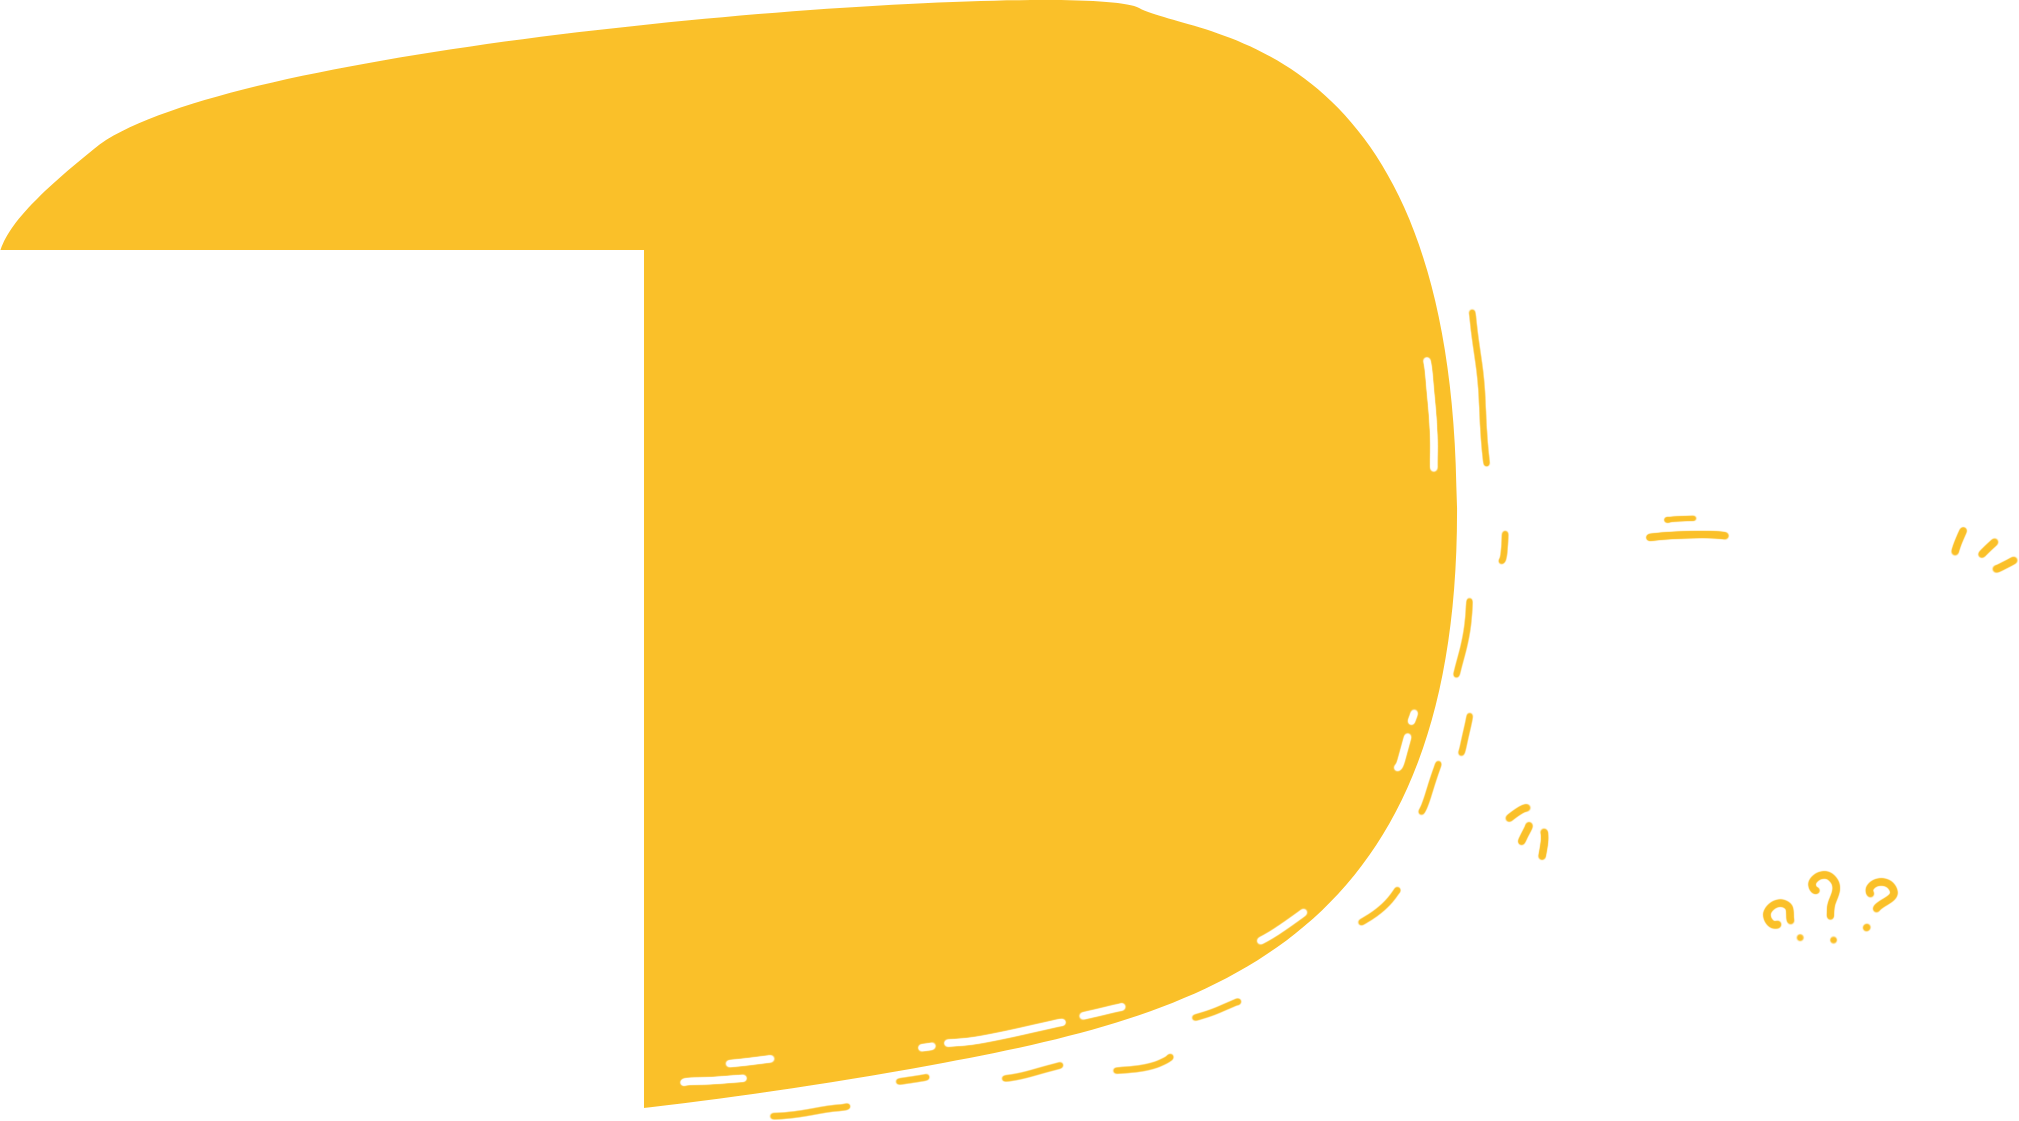
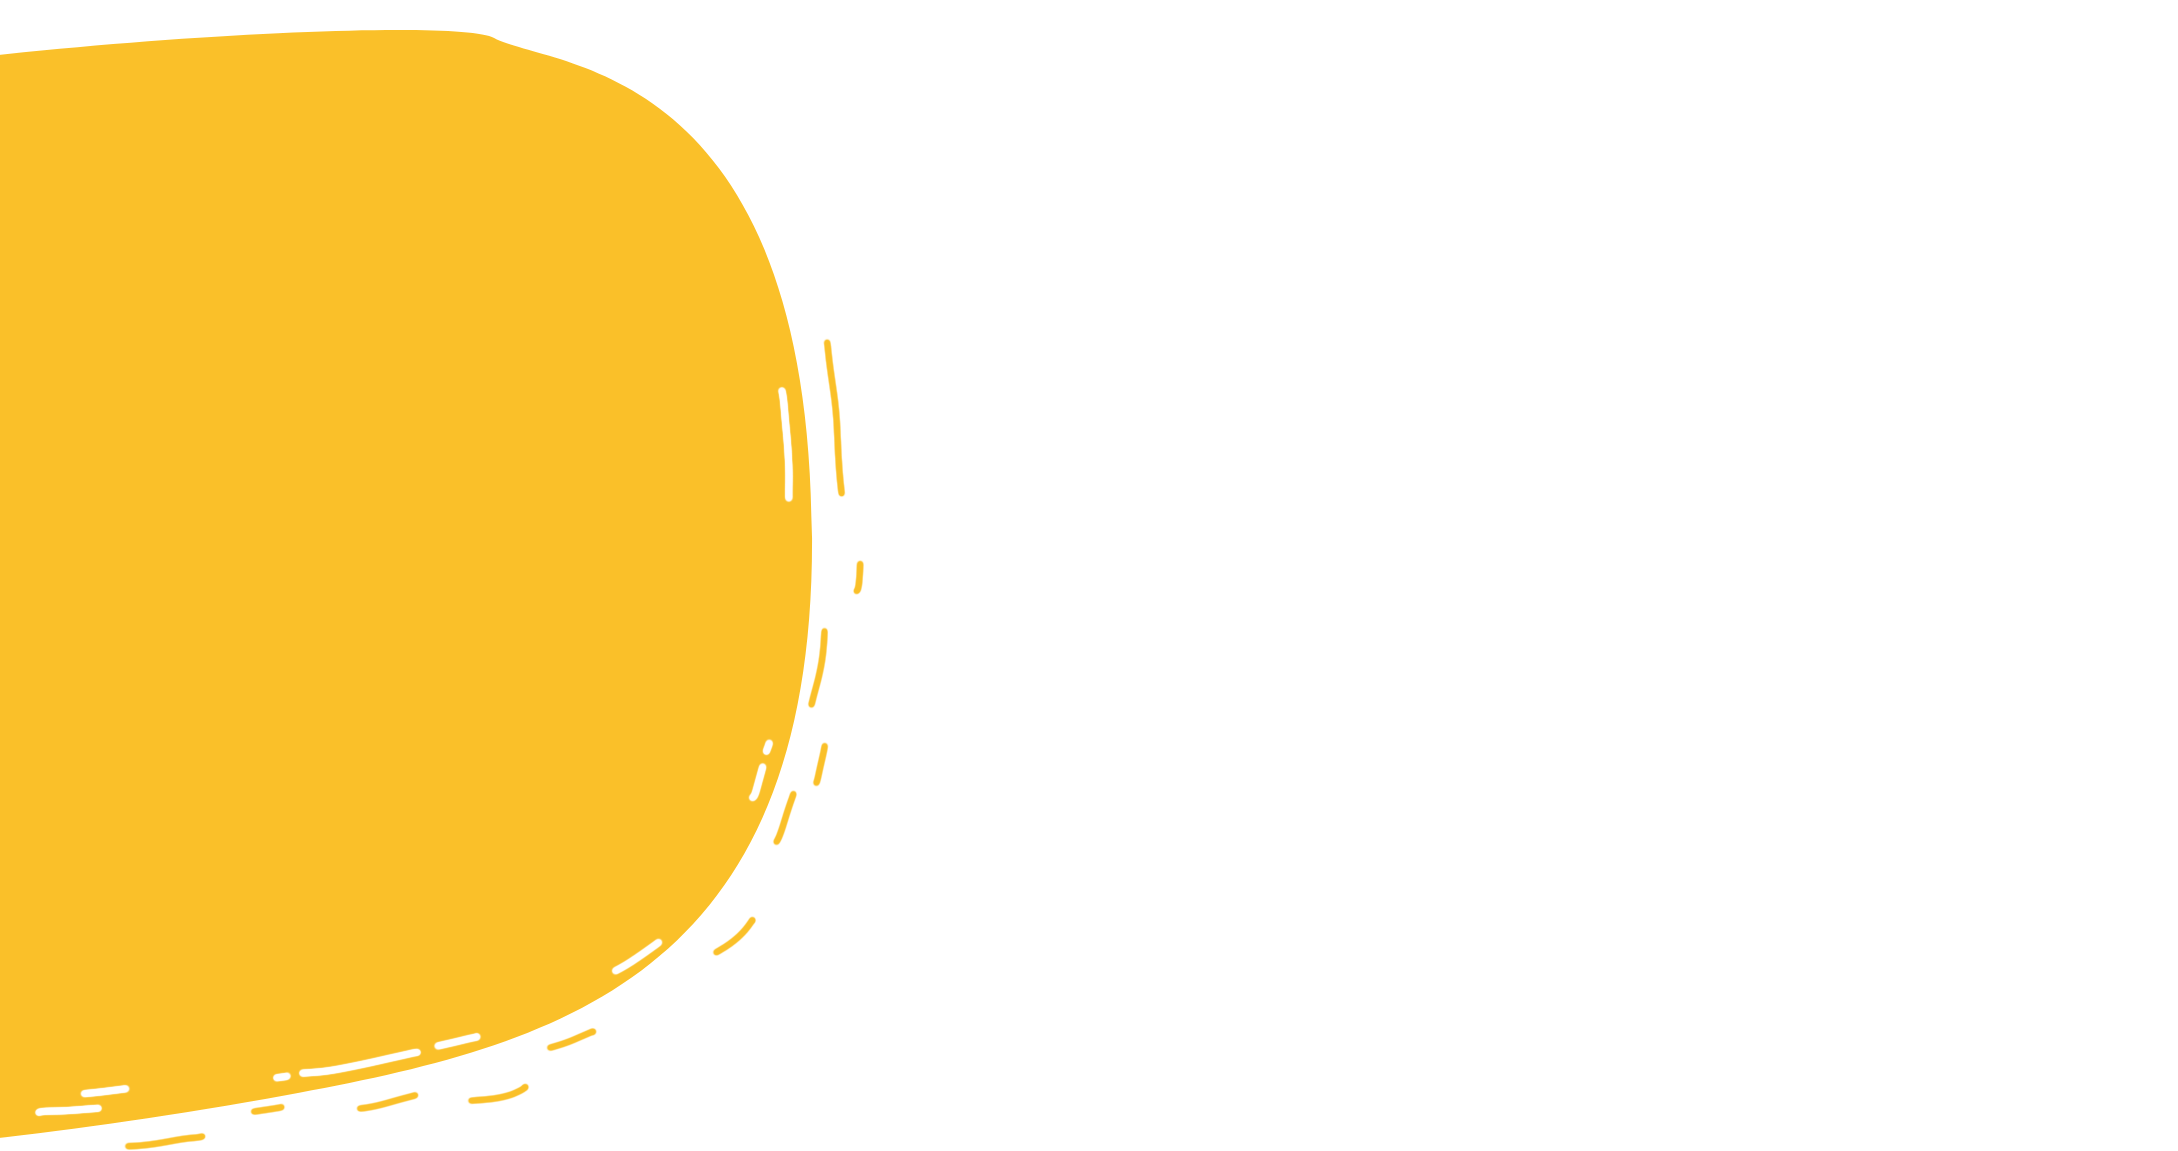
(feature) fixed pages background;

diff --git a/assets/css/style.css b/assets/css/style.css
@@ -1,2 +1,2 @@
-html{box-sizing:border-box}*,:after,:before{box-sizing:inherit}body{margin:0;padding:0;background-color:#efebeb;color:#000;font-size:20px;font-family:"PT Serif",serif}.primary-title{font-size:100px;font-weight:700;line-height:90px}.secondary-title{font-size:70px;font-weight:700;line-height:68px}.main-text{font-family:Proxima Nova,sans-serif;font-size:20px;font-weight:400;line-height:32px}.main-button{text-decoration:none;cursor:pointer;background-color:#000;font-size:18px;padding:13px 13px 13px 21px;display:inline-flex;justify-content:space-between;align-items:center;min-width:235px;border-radius:18px;color:#fbbf28;border:none}.main-button>span{display:inline-block;margin-left:42px;width:16px;height:12px;background-image:url(../img/arrow-pointing-to-right.png);background-size:contain;background-repeat:no-repeat}.quote-author{font-weight:700;font-family:"PT Serif",serif}@font-face{font-family:"PT Serif";font-style:normal;font-weight:400;font-display:swap;src:local("PT Serif"),local("PTSerif-Regular"),url(../fonts/pt-serif-v11-latin_cyrillic-regular.woff2) format("woff2"),url(../fonts/pt-serif-v11-latin_cyrillic-regular.woff) format("woff")}@font-face{font-family:"PT Serif";font-style:normal;font-weight:700;font-display:swap;src:local("PT Serif Bold"),local("PTSerif-Bold"),url(../fonts/pt-serif-v11-latin_cyrillic-700.woff2) format("woff2"),url(../fonts/pt-serif-v11-latin_cyrillic-700.woff) format("woff")}@font-face{font-family:Proxima nova;font-style:normal;font-weight:400;font-display:swap;src:local("Proxima nova"),local("Proxima-nova"),url(../fonts/ProximaNova-Regular.woff2) format("woff2"),url(../fonts/ProximaNova-Regular.woff) format("woff")}.start-page{background-image:url(../img/text-cloud.png);min-height:100vh;background-position:64px bottom;background-repeat:no-repeat}.start-page__header{padding-left:64px;padding-top:42px}.logo{text-decoration:none;display:inline-block;width:156px;height:48px}.logo__img{width:100%;height:100%;-o-object-fit:contain;object-fit:contain}.start-page__desc-box{display:flex}.start-page__desc-wrap{max-width:488px;text-align:center;margin-top:73px;margin-right:108px;margin-left:auto}.start-page__slogan{font-size:24px;font-weight:500;line-height:68px;margin:0;font-family:Proxima Nova,sans-serif}.start-page__title{margin:0 0 36px}.why-us{background-image:url(../img/why-us.png);min-height:100vh;background-position:-645px bottom;background-repeat:no-repeat;position:relative}.why-us__desc-box{max-width:585px;padding-top:240px;margin-left:115px}.why-us__title{margin:0}.why-us__cards-list{list-style:none;margin:0;padding:0;display:flex}.why-us__card{width:300px;height:250px}.why-us__card:first-child{width:450px}.why-us__card:not(:last-child){margin-right:30px}.why-us__card-link{text-decoration:none;cursor:pointer;display:inline-block;width:100%;height:100%}.why-us__card-img{-o-object-fit:contain;object-fit:contain}.callback{background-image:url(../img/callback.png);min-height:100vh;background-position:-375px -170px;background-repeat:no-repeat;display:flex;flex-wrap:wrap;justify-content:space-between;position:relative}.callback__fields-wrapper{max-width:720px;display:grid;grid-template-columns:repeat(2,1fr);grid-row-gap:20px;grid-column-gap:20px}.callback__form input{height:50px;background-color:#fff}.callback__form input,.callback__form textarea{width:348px;border-radius:15px;color:#000;border:none;padding-left:30px;font-size:18px;font-family:Proxima Nova,sans-serif}.callback__form textarea{resize:none;height:190px;padding-top:19px}::-webkit-input-placeholder{font-size:18px;color:#000;font-family:Proxima Nova,sans-serif}:-moz-placeholder,::-moz-placeholder{font-size:18px;color:#000;font-family:Proxima Nova,sans-serif}:-ms-input-placeholder{font-size:18px;color:#000;font-family:Proxima Nova,sans-serif}.form-label--textarea{grid-column-start:2;grid-column-end:3;grid-row-start:1;grid-row-end:4}.callback__form-submit-button{margin-top:50px}.callback__form-wrapper{min-height:100vh;height:100%;display:flex;flex-direction:column;justify-content:center;padding-left:150px}.callback__title{margin:0 0 53px}.callback__desc-box{max-width:220px;margin-right:70px;padding-top:155px}.callback__desc-box blockquote{margin:0}.callback__text.callback__quote-text{font-size:32px;font-weight:400;line-height:42px}.callback__footer{position:absolute;right:0;bottom:0;padding-right:130px;padding-bottom:57px}
+html{box-sizing:border-box}*,:after,:before{box-sizing:inherit}body{margin:0;padding:0;background-color:#efebeb;color:#000;font-size:20px;font-family:"PT Serif",serif}.primary-title{font-size:100px;font-weight:700;line-height:90px}.secondary-title{font-size:70px;font-weight:700;line-height:68px}.main-text{font-family:Proxima Nova,sans-serif;font-size:20px;font-weight:400;line-height:32px}.main-button{text-decoration:none;cursor:pointer;background-color:#000;font-size:18px;padding:13px 13px 13px 21px;display:inline-flex;justify-content:space-between;align-items:center;min-width:235px;border-radius:18px;color:#fbbf28;border:none}.main-button>span{display:inline-block;margin-left:42px;width:16px;height:12px;background-image:url(../img/arrow-pointing-to-right.png);background-size:contain;background-repeat:no-repeat}.quote-wrapper blockquote{margin:0}.quote-text{font-size:32px;font-weight:400;line-height:42px}.quote-author{font-weight:700;font-family:"PT Serif",serif}.disclaimer p{margin:0;color:#090909;font-family:Proxima Nova,sans-serif;font-size:9px;font-weight:400;line-height:20px}main{display:flex;width:400vw}section{width:100vw;max-height:100vh}@font-face{font-family:"PT Serif";font-style:normal;font-weight:400;font-display:swap;src:local("PT Serif"),local("PTSerif-Regular"),url(../fonts/pt-serif-v11-latin_cyrillic-regular.woff2) format("woff2"),url(../fonts/pt-serif-v11-latin_cyrillic-regular.woff) format("woff")}@font-face{font-family:"PT Serif";font-style:normal;font-weight:700;font-display:swap;src:local("PT Serif Bold"),local("PTSerif-Bold"),url(../fonts/pt-serif-v11-latin_cyrillic-700.woff2) format("woff2"),url(../fonts/pt-serif-v11-latin_cyrillic-700.woff) format("woff")}@font-face{font-family:Proxima nova;font-style:normal;font-weight:400;font-display:swap;src:local("Proxima nova"),local("Proxima-nova"),url(../fonts/ProximaNova-Regular.woff2) format("woff2"),url(../fonts/ProximaNova-Regular.woff) format("woff")}.start-page{min-height:100vh;position:relative}.start-page:after{content:"";position:absolute;top:-220px;bottom:0;left:64px;right:-55%;width:2330px;background-image:url(../img/why-us-cloud.png);background-repeat:no-repeat;z-index:-1;background-size:cover}.start-page__header{padding-left:64px;padding-top:42px;position:absolute;top:0;left:0}.logo{text-decoration:none;display:inline-block;width:156px;height:48px}.logo__img{width:100%;height:100%;-o-object-fit:contain;object-fit:contain}.start-page__desc-box{display:flex;align-items:center;width:45%;margin-left:auto;height:100%}.start-page__desc-wrap{max-width:488px;text-align:center}.start-page__slogan{font-size:24px;font-weight:500;line-height:68px;margin:0;font-family:Proxima Nova,sans-serif}.start-page__title{margin:0 0 36px}.why-us{min-height:100vh;position:relative}.why-us__desc-box{max-width:585px;padding-top:240px;margin-left:115px}.why-us__title{margin:0}.why-us__cards-list{list-style:none;margin:0;padding:0;display:flex}.why-us__card{width:300px;height:250px}.why-us__card:first-child{width:450px}.why-us__card:not(:last-child){margin-right:30px}.why-us__card-link{text-decoration:none;cursor:pointer;display:inline-block;width:100%;height:100%}.why-us__card-img{-o-object-fit:contain;object-fit:contain}.ads{min-height:100vh;background-repeat:no-repeat;background-position:1000px -185px;background-image:url(../img/ads.png);position:relative;display:flex}.ads__quote-wrapper{max-width:660px;display:flex;align-items:flex-end;padding-bottom:100px;margin-left:110px}.ads__disclaimer{position:absolute;bottom:15px;left:110px}.callback{background-image:url(../img/callback.png);min-height:100vh;background-position:-375px -170px;background-repeat:no-repeat;display:flex;flex-wrap:wrap;justify-content:space-between;position:relative}.callback__fields-wrapper{max-width:720px;display:grid;grid-template-columns:repeat(2,1fr);grid-row-gap:20px;grid-column-gap:20px}.callback__form input{height:50px;background-color:#fff}.callback__form input,.callback__form textarea{width:348px;border-radius:15px;color:#000;border:none;padding-left:30px;font-size:18px;font-family:Proxima Nova,sans-serif}.callback__form textarea{resize:none;height:190px;padding-top:19px}::-webkit-input-placeholder{font-size:18px;color:#000;font-family:Proxima Nova,sans-serif}:-moz-placeholder,::-moz-placeholder{font-size:18px;color:#000;font-family:Proxima Nova,sans-serif}:-ms-input-placeholder{font-size:18px;color:#000;font-family:Proxima Nova,sans-serif}.form-label--textarea{grid-column-start:2;grid-column-end:3;grid-row-start:1;grid-row-end:4}.callback__form-submit-button{margin-top:50px}.callback__form-wrapper{min-height:100vh;height:100%;display:flex;flex-direction:column;justify-content:center;padding-left:150px}.callback__title{margin:0 0 53px}.callback__desc-box{max-width:220px;margin-right:70px;padding-top:155px}.callback__footer{position:absolute;right:0;bottom:0;padding-right:130px;padding-bottom:57px}
 /*# sourceMappingURL=style.css.map */

diff --git a/index.html b/index.html
@@ -10,7 +10,7 @@
 </head>
 <body>
   <main class="main" id="main">
-    <section class="start-page">
+    <section class="start-page rellax" data-rellax-speed="2">
       <header class="start-page__header">
         <a href="" class="start-page__header-logo logo">
           <img src="assets/img/logo.png"
@@ -19,7 +19,7 @@
         </a>
       </header>
 
-      <div class="start-page__desc-box">
+      <div class="start-page__desc-box rellax" data-rellax-speed="10">
         <div class="start-page__desc-wrap">
           <p class="main-text start-page__slogan">Интернет переполнен скучными баннерами</p>
           <h1 class="start-page__title primary-title">Оживите вашу рекламу</h1>
@@ -35,7 +35,7 @@
     </section>
 
     <section class="why-us">
-      <div class="why-us__desc-box">
+      <div class="why-us__desc-box rellax" data-rellax-speed="10">
         <h1 class="why-us__title secondary-title">Почему adGoUp?</h1>
         <p class="main-text">
           Потому что вовлеченные пользователи в процесе
@@ -51,7 +51,9 @@
         </a>
       </div>
       <div class="why-us__cards-wrapper">
-        <ul class="why-us__cards-list">
+        <ul class="why-us__cards-list rellax" data-rellax-speed="5" data-rellax-zindex="10" style="position: absolute;
+left: 72%;
+bottom: 36%;">
           <li class="why-us__card">
             <a href="#" class="why-us__card-link">
               <img src="assets/img/card.png" alt="как это работает?" class="why-us__card-img">
@@ -86,7 +88,25 @@
       </div>
     </section>
 
-    <section class="ads-section"></section>
+    <section class="ads">
+      <div class="ads__quote-wrapper quote-wrapper rellax">
+        <blockquote>
+          <p class="main-text quote-text">
+            Вести бизнес без рекламы — все равно, что подмигивать девушке в полной темноте.
+          </p>
+          <p class="main-text quote-author">
+            Стюарт Хендерсон Бритт
+          </p>
+        </blockquote>
+      </div>
+      <div class="ads__disclaimer disclaimer rellax">
+        <p>
+          * Данные рекламные компании созданы для ознакомления с возможностями adGoUp и
+          не все являются актуальными рекламными компаниями.
+        </p>
+      </div>
+    </section>
+
     <section class="callback">
       <div class="callback__form-wrapper">
         <h1 class="primary-title callback__title">Оставить <br> заявку</h1>
@@ -113,9 +133,9 @@
         </form>
       </div>
 
-      <div class="callback__desc-box">
+      <div class="callback__desc-box quote-wrapper">
         <blockquote>
-          <p class="main-text callback__text callback__quote-text">
+          <p class="main-text callback__text quote-text">
             “Если ваша реклама неотличима от остальных, это равносильно самоубийству”
           </p>
           <p class="main-text quote-author">Уильям Бернбах</p>
@@ -131,5 +151,23 @@
 
 
   <script src="assets/js/main.min.js"></script>
+
+  <script src="rellax.min.js"></script>
+  <script>
+    // Accepts any class name
+    var rellax = new Rellax('.rellax');
+  </script>
+
+  <script>
+    // Also can pass in optional settings block
+    var rellax = new Rellax('.rellax', {
+      speed: -2,
+      center: false,
+      wrapper: null,
+      round: true,
+      vertical: false,
+      horizontal: true
+    });
+  </script>
 </body>
 </html>

diff --git a/assets/less/start-page.less b/assets/less/start-page.less
@@ -1,13 +1,32 @@
 .start-page {
-  background-image: url(../img/text-cloud.png);
+  //background-image: url(../img/text-cloud.png);
   min-height: 100vh;
-  background-position: 64px bottom;
+  //background-position: 64px bottom;
+  //background-repeat: no-repeat;
+  position: relative;
+}
+
+.start-page::after {
+  content: '';
+  position: absolute;
+  top: -220px;
+  bottom: 0;
+  left: 64px;
+  right: -55%;
+  width: 2330px;
+  background-image: url(../img/why-us-cloud.png);
+  //background-position: 64px bottom;
   background-repeat: no-repeat;
+  z-index: -1;
+  background-size: cover;
 }
 
 .start-page__header {
   padding-left: 64px;
   padding-top: 42px;
+  position: absolute;
+  top: 0;
+  left: 0;
 }
 
 .logo {
@@ -25,14 +44,18 @@
 
 .start-page__desc-box {
   display: flex;
+  align-items: center;
+  width: 45%;
+  margin-left: auto;
+  height: 100%;
 }
 
 .start-page__desc-wrap {
   max-width: 488px;
   text-align: center;
-  margin-top: 73px;
-  margin-right: 108px;
-  margin-left: auto;
+  //margin-top: 73px;
+  //margin-right: 108px;
+  //margin-left: auto;
 }
 
 .start-page__slogan {

diff --git a/assets/less/main.less b/assets/less/main.less
@@ -60,12 +60,42 @@ body {
   background-repeat: no-repeat;
 }
 
+.quote-wrapper blockquote {
+  margin: 0;
+}
+
+.quote-text {
+  font-size: 32px;
+  font-weight: 400;
+  line-height: 42px;
+}
+
 .quote-author {
   font-weight: 700;
   font-family: "PT Serif", serif;
 }
 
+.disclaimer p {
+  margin: 0;
+  color: #090909;
+  font-family: "Proxima Nova", sans-serif;
+  font-size: 9px;
+  font-weight: 400;
+  line-height: 20px;
+}
+
+main {
+  display: flex;
+  width: 400vw;
+}
+
+section {
+  width: 100vw;
+  max-height: 100vh;
+}
+
 @import "fonts";
 @import "start-page";
 @import "why-us";
+@import "ads";
 @import "callback";

diff --git a/assets/less/why-us.less b/assets/less/why-us.less
@@ -1,10 +1,23 @@
 .why-us {
-  background-image: url(../img/why-us.png);
+  //background-image: url(../img/why-us.png);
   min-height: 100vh;
-  background-position: -645px bottom;
-  background-repeat: no-repeat;
+  //background-position: -645px bottom;
+  //background-repeat: no-repeat;
   position: relative;
 }
+
+//.why-us::after {
+//  content: '';
+//  background-image: url(../img/why-us.png);
+//  background-repeat: no-repeat;
+//  background-size: cover;
+//  position: absolute;
+//  top: -210px;
+//  bottom: 0;
+//  left: 0;
+//  right: 0;
+//  z-index: -1;
+//}
 
 .why-us__desc-box {
   max-width: 585px;

diff --git a/assets/less/ads.less b/assets/less/ads.less
@@ -1,0 +1,22 @@
+.ads {
+  min-height: 100vh;
+  background-repeat: no-repeat;
+  background-position: 1000px -185px;
+  background-image: url(../img/ads.png);
+  position: relative;
+  display: flex;
+}
+
+.ads__quote-wrapper {
+  max-width: 660px;
+  display: flex;
+  align-items: flex-end;
+  padding-bottom: 100px;
+  margin-left: 110px;
+}
+
+.ads__disclaimer {
+  position: absolute;
+  bottom: 15px;
+  left: 110px;
+}

diff --git a/assets/less/callback.less b/assets/less/callback.less
@@ -98,16 +98,6 @@
   padding-top: 155px;
 }
 
-.callback__desc-box blockquote {
-  margin: 0;
-}
-
-.callback__text.callback__quote-text {
-  font-size: 32px;
-  font-weight: 400;
-  line-height: 42px;
-}
-
 .callback__footer {
   position: absolute;
   right: 0;
